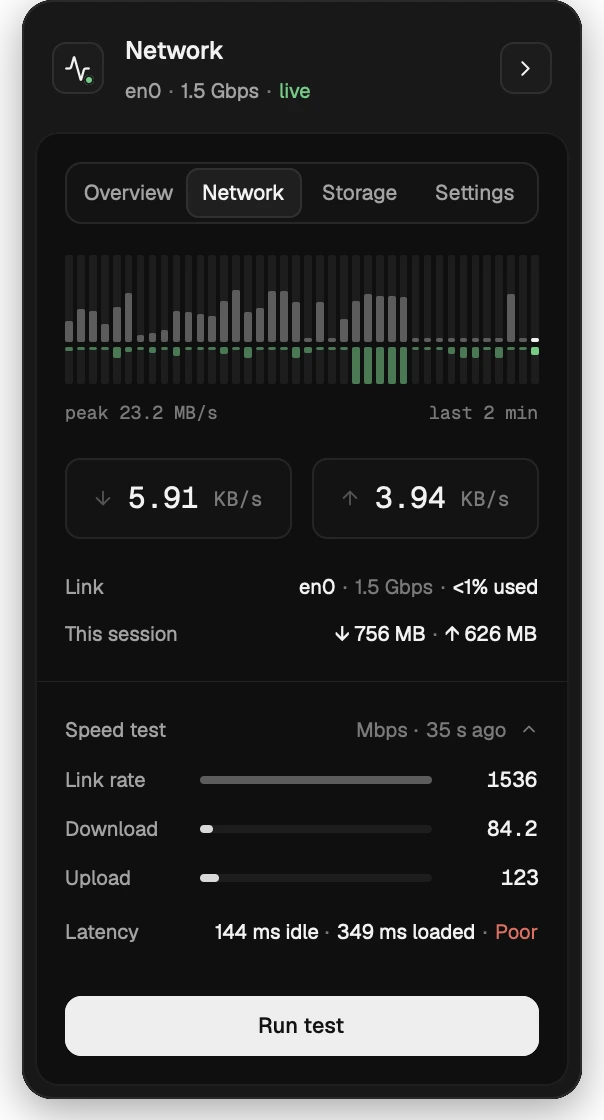
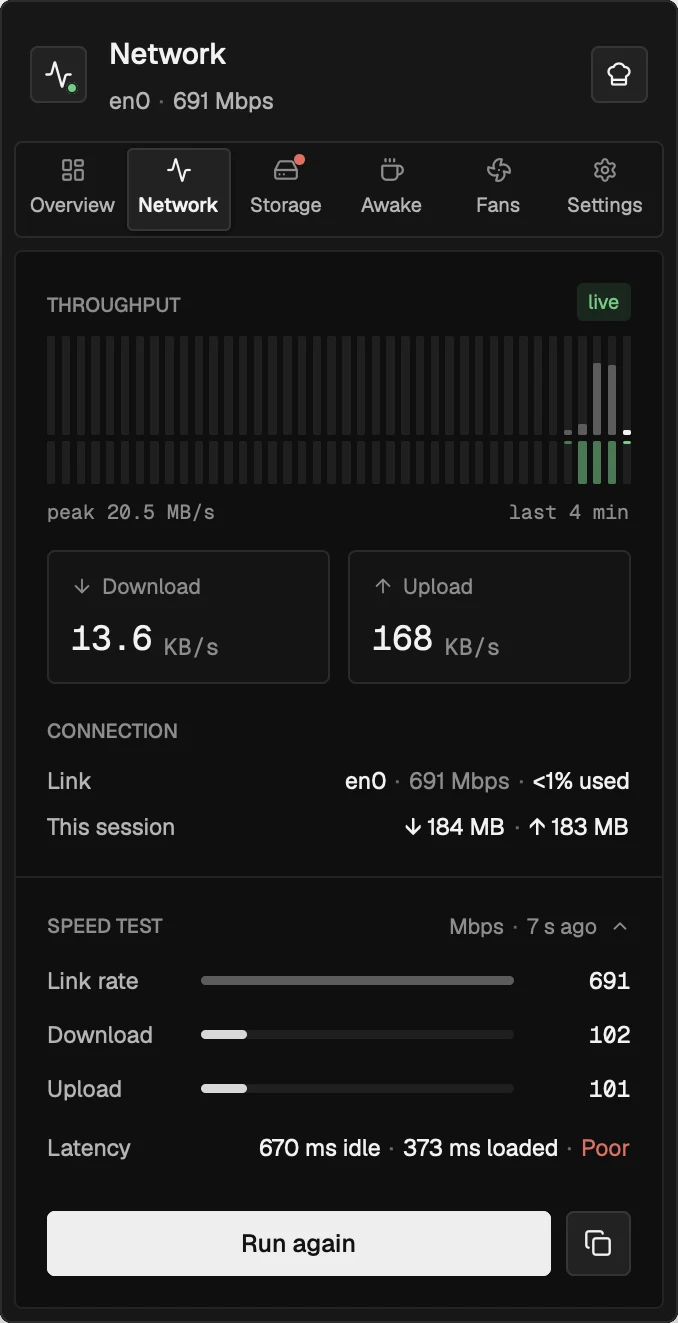
Update marketing site for Utilify dashboard features

diff --git a/marketing/index.html b/marketing/index.html
@@ -8,15 +8,15 @@
     <title>Utilify · Network and storage in your macOS menu bar</title>
     <meta
       name="description"
-      content="Utilify is a small, open-source macOS menu-bar monitor written in Rust. Live download and upload rates, a traffic graph and a storage bar, one click from a dashboard with a speed test and 30 days of storage history."
+      content="Utilify is a small, open-source set of macOS menu-bar utilities written in Rust: live network rates and storage, a speed test, keep awake, fan control and a CyberChef-style data workbench."
     />
     <meta property="og:title" content="Utilify · Your network, in the menu bar" />
     <meta
       property="og:description"
-      content="A small, open-source macOS menu-bar monitor for network activity and storage, written in Rust on GPUI."
+      content="Open-source macOS menu-bar utilities in Rust: network and storage, keep awake, fan control and a data workbench."
     />
-    <meta property="og:image" content="https://netwatch.imran.codes/images/og.png" />
-    <meta property="og:url" content="https://netwatch.imran.codes/" />
+    <meta property="og:image" content="https://utilify.imran.codes/images/og.png" />
+    <meta property="og:url" content="https://utilify.imran.codes/" />
     <meta name="twitter:card" content="summary" />
     <link rel="preload" href="fonts/Geist-Regular.ttf" as="font" type="font/ttf" crossorigin />
     <style>
@@ -443,7 +443,14 @@
       }
       .popover img {
         width: 100%;
-        border-radius: 16px;
+        border-radius: 5px;
+      }
+      /* Tabs taller than the desk scroll in the app; here they fade out. */
+      .popover.tall {
+        max-height: 552px;
+        overflow: hidden;
+        -webkit-mask-image: linear-gradient(to bottom, #000 calc(100% - 56px), transparent);
+        mask-image: linear-gradient(to bottom, #000 calc(100% - 56px), transparent);
       }
       .popover.on {
         opacity: 1;
@@ -680,45 +687,35 @@
       }
 
       /* Clickable tabs over a dashboard screenshot. The box matches the
-         screenshot's top 604x222 px, so the hit areas scale with the image. */
+         screenshot's top 678x240 px, so the hit areas scale with the image. */
       .tabbed {
         position: relative;
       }
       .tabbed .hit {
         position: absolute;
         inset: 0 0 auto 0;
-        aspect-ratio: 604 / 222;
+        aspect-ratio: 678 / 240;
         pointer-events: none;
       }
       .tabbed .hit .tabs {
         position: absolute;
-        left: 10.76%;
-        width: 78.48%;
-        top: 73.42%;
-        height: 27.03%;
+        left: 2.21%;
+        width: 95.58%;
+        top: 59.17%;
+        height: 39.58%;
         display: grid;
-        grid-template-columns: repeat(4, 1fr);
-        padding: 1.5%;
-        gap: 1%;
+        grid-template-columns: repeat(6, 1fr);
+        padding: 0.8%;
+        gap: 0.5%;
       }
       .tabbed .hit button {
         all: unset;
         pointer-events: auto;
         cursor: pointer;
-        border-radius: 7px;
+        border-radius: 3px;
       }
       .tabbed .hit .tabs button:not([aria-pressed="true"]):hover {
         background: rgba(255, 255, 255, 0.05);
-      }
-      .tabbed .hit .next {
-        position: absolute;
-        left: 82.78%;
-        width: 8.61%;
-        top: 18.92%;
-        height: 23.42%;
-      }
-      .tabbed .hit .next:hover {
-        background: rgba(255, 255, 255, 0.06);
       }
       .tabbed .hit button:focus-visible {
         outline: 2px solid var(--focus);
@@ -744,7 +741,7 @@
       }
       .dash-media img {
         width: 100%;
-        border-radius: 16px;
+        border-radius: 5px;
         filter: drop-shadow(0 26px 40px rgba(0, 0, 0, 0.7));
       }
       .dash-list {
@@ -1097,7 +1094,7 @@
           <a href="#install">Install</a>
         </nav>
         <div class="nav-right">
-          <a class="gh" href="https://github.com/imran-vz/Netwatch">
+          <a class="gh" href="https://github.com/imran-vz/Utilify">
             <svg viewBox="0 0 16 16" width="16" height="16" fill="currentColor" aria-hidden="true">
               <path d="M8 0C3.58 0 0 3.58 0 8c0 3.54 2.29 6.53 5.47 7.59.4.07.55-.17.55-.38 0-.19-.01-.82-.01-1.49-2.01.37-2.53-.49-2.69-.94-.09-.23-.48-.94-.82-1.13-.28-.15-.68-.52-.01-.53.63-.01 1.08.58 1.23.82.72 1.21 1.87.87 2.33.66.07-.52.28-.87.51-1.07-1.78-.2-3.64-.89-3.64-3.95 0-.87.31-1.59.82-2.15-.08-.2-.36-1.02.08-2.12 0 0 .67-.21 2.2.82.64-.18 1.32-.27 2-.27.68 0 1.36.09 2 .27 1.53-1.04 2.2-.82 2.2-.82.44 1.1.16 1.92.08 2.12.51.56.82 1.27.82 2.15 0 3.07-1.87 3.75-3.65 3.95.29.25.54.73.54 1.48 0 1.07-.01 1.93-.01 2.2 0 .21.15.46.55.38A8.01 8.01 0 0016 8c0-4.42-3.58-8-8-8z" />
             </svg>
@@ -1112,7 +1109,7 @@
       <div class="frame">
         <div class="news band" style="border-top: 0">
           <span>New:</span>
-          <a href="https://github.com/imran-vz/Netwatch">a four-tab dashboard with a speed test and 30 days of storage history. Read the code on GitHub →</a>
+          <a href="https://github.com/imran-vz/Utilify">keep awake, fan control and a CyberChef-style workbench, in a redesigned dashboard. Read the code on GitHub →</a>
         </div>
 
         <!-- Hero -->
@@ -1132,7 +1129,7 @@
                 </svg>
                 Get Utilify <kbd>I</kbd>
               </a>
-              <a class="btn" href="https://github.com/imran-vz/Netwatch" data-key="c">
+              <a class="btn" href="https://github.com/imran-vz/Utilify" data-key="c">
                 <svg viewBox="0 0 16 16" fill="currentColor" aria-hidden="true">
                   <path d="M8 0C3.58 0 0 3.58 0 8c0 3.54 2.29 6.53 5.47 7.59.4.07.55-.17.55-.38 0-.19-.01-.82-.01-1.49-2.01.37-2.53-.49-2.69-.94-.09-.23-.48-.94-.82-1.13-.28-.15-.68-.52-.01-.53.63-.01 1.08.58 1.23.82.72 1.21 1.87.87 2.33.66.07-.52.28-.87.51-1.07-1.78-.2-3.64-.89-3.64-3.95 0-.87.31-1.59.82-2.15-.08-.2-.36-1.02.08-2.12 0 0 .67-.21 2.2.82.64-.18 1.32-.27 2-.27.68 0 1.36.09 2 .27 1.53-1.04 2.2-.82 2.2-.82.44 1.1.16 1.92.08 2.12.51.56.82 1.27.82 2.15 0 3.07-1.87 3.75-3.65 3.95.29.25.54.73.54 1.48 0 1.07-.01 1.93-.01 2.2 0 .21.15.46.55.38A8.01 8.01 0 0016 8c0-4.42-3.58-8-8-8z" />
                 </svg>
@@ -1163,7 +1160,7 @@
                 </div>
               </div>
               <div class="popover tabbed" id="popover" role="dialog" aria-label="Utilify dashboard">
-                <img src="images/tab-overview.webp" alt="Utilify dashboard, Overview tab: a two-minute rate graph, the current download and upload rates, and a storage bar" width="604" height="758" />
+                <img src="images/tab-overview.webp" alt="Utilify dashboard, Overview tab: a two-minute rate graph, the current download and upload rates, and a storage bar" width="678" height="1192" />
               </div>
               <div class="ctx" id="ctx" role="menu" aria-label="Utilify menu">
                 <div class="hl">Open Dashboard</div>
@@ -1237,7 +1234,7 @@
             <div class="sec-head">
               <div>
                 <h2>One click for the full picture</h2>
-                <p>Left-click the status item and a dashboard drops down beneath it, in four tabs. It reopens on the tab you left, and clicking away closes it.</p>
+                <p>Left-click the status item and a dashboard drops down beneath it, in six tabs. It reopens on the tab you left, and clicking away closes it.</p>
               </div>
             </div>
           </div>
@@ -1245,7 +1242,7 @@
             <div class="inner dash">
               <div class="dash-media">
                 <div class="tabbed" id="dashShot">
-                  <img src="images/tab-overview.webp" alt="Utilify dashboard, Overview tab: a two-minute rate graph, the current download and upload rates, and a storage bar" width="604" height="758" loading="lazy" />
+                  <img src="images/tab-overview.webp" alt="Utilify dashboard, Overview tab: a two-minute rate graph, the current download and upload rates, and a storage bar" width="678" height="1192" loading="lazy" />
                 </div>
               </div>
               <ul class="dash-list">
@@ -1265,9 +1262,17 @@
                   <h3><span class="tab-tag">Storage</span>30 days of disk use</h3>
                   <p>Used space on your startup disk over the last 30 days, sampled every 15 minutes and kept across launches, with a dashed trend line and the average change per day.</p>
                 </li>
+                <li data-tab="awake" role="button" tabindex="0" aria-pressed="false">
+                  <h3><span class="tab-tag">Awake</span>Keep the Mac awake</h3>
+                  <p>Stay awake indefinitely, for a set time, until a clock time, while an app runs, while a file downloads, or while the network is busy. Choose whether the display and the lid may still sleep.</p>
+                </li>
+                <li data-tab="fans" role="button" tabindex="0" aria-pressed="false">
+                  <h3><span class="tab-tag">Fans</span>Fan control and temperatures</h3>
+                  <p>Leave each fan on automatic, pin it to a speed, or tie it to a sensor with a curve. Save setups as presets. Every temperature sensor is listed underneath. Setting speeds needs a small root helper, which the installer adds.</p>
+                </li>
                 <li data-tab="settings" role="button" tabindex="0" aria-pressed="false">
                   <h3><span class="tab-tag">Settings</span>Your preferences</h3>
-                  <p>How often to refresh, whether to show speeds in the menu bar, and where the storage bar turns yellow and red. Quit is here too.</p>
+                  <p>What the menu bar shows, where the storage bar turns yellow and red, which notifications you get, and the health checks that make sure everything still works. Quit is here too.</p>
                 </li>
               </ul>
             </div>
@@ -1350,12 +1355,12 @@
             <h2>Put Utilify in your menu bar</h2>
             <p>There are no signed builds yet. With a recent Rust toolchain, the install script builds the app, puts it in Applications and opens it. Re-run it after pulling to update.</p>
             <div class="actions">
-              <a class="btn primary" href="https://github.com/imran-vz/Netwatch#build-and-run">Build from source</a>
-              <a class="btn" href="https://github.com/imran-vz/Netwatch/releases">Releases</a>
+              <a class="btn primary" href="https://github.com/imran-vz/Utilify#build-and-run">Build from source</a>
+              <a class="btn" href="https://github.com/imran-vz/Utilify/releases">Releases</a>
             </div>
             <div class="term">
               <button class="copy" id="copy" type="button">Copy</button>
-              <pre id="cmds"><span>$ </span>git clone https://github.com/imran-vz/Netwatch && cd Netwatch
+              <pre id="cmds"><span>$ </span>git clone https://github.com/imran-vz/Utilify && cd Utilify
 <span>$ </span>./install.sh</pre>
             </div>
           </div>
@@ -1375,10 +1380,10 @@
               <h4>Product</h4>
               <ul>
                 <li><a href="#install">Install</a></li>
-                <li><a href="https://github.com/imran-vz/Netwatch/releases">Releases</a></li>
-                <li><a href="https://github.com/imran-vz/Netwatch#readme">Readme</a></li>
-                <li><a href="https://github.com/imran-vz/Netwatch">Source</a></li>
-                <li><a href="https://github.com/imran-vz/Netwatch/issues">Issues</a></li>
+                <li><a href="https://github.com/imran-vz/Utilify/releases">Releases</a></li>
+                <li><a href="https://github.com/imran-vz/Utilify#readme">Readme</a></li>
+                <li><a href="https://github.com/imran-vz/Utilify">Source</a></li>
+                <li><a href="https://github.com/imran-vz/Utilify/issues">Issues</a></li>
               </ul>
             </div>
             <div>
@@ -1600,12 +1605,14 @@
         ).observe(desk);
 
         // ── Dashboard screenshots with working tabs. Each tab is its own
-        //    screenshot; buttons over the tab bar and the › button swap them.
+        //    screenshot; buttons over the tab bar swap them.
         const TABS = {
-          overview: { h: 758, alt: "Utilify dashboard, Overview tab: a two-minute rate graph, the current download and upload rates, and a storage bar" },
-          network: { h: 1120, alt: "Utilify dashboard, Network tab: the rate graph, link speed and use, totals for the session, and a speed test result with latency idle and under load" },
-          storage: { h: 768, alt: "Utilify dashboard, Storage tab: a chart of used disk space over time with a dashed trend line, and a storage bar" },
-          settings: { h: 1044, alt: "Utilify dashboard, Settings tab: refresh interval, speeds in the menu bar, storage colour thresholds, the red-zone notification, and Quit" },
+          overview: { h: 1192, alt: "Utilify dashboard, Overview tab: a two-minute rate graph, the current download and upload rates, storage, and keep-awake choices" },
+          network: { h: 1323, alt: "Utilify dashboard, Network tab: the rate graph, link speed and use, totals for the session, and a speed test result with latency idle and under load" },
+          storage: { h: 853, alt: "Utilify dashboard, Storage tab: a chart of used disk space over 30 days with a dashed trend line, and a storage bar" },
+          awake: { h: 1592, alt: "Utilify dashboard, Awake tab: ways to start a keep-awake session, session options, and quick settings" },
+          fans: { h: 1645, alt: "Utilify dashboard, Fans tab: presets, each fan with Auto, Constant and Sensor control, and the temperature sensors" },
+          settings: { h: 1645, alt: "Utilify dashboard, Settings tab: what the menu bar shows, storage colours, notifications and health checks" },
         };
         const NAMES = Object.keys(TABS);
         let preloaded = false;
@@ -1630,12 +1637,7 @@
             row.append(b);
             return b;
           });
-          const next = document.createElement("button");
-          next.type = "button";
-          next.className = "next";
-          next.setAttribute("aria-label", "Next tab");
-          next.addEventListener("click", () => set(NAMES[(NAMES.indexOf(current) + 1) % NAMES.length]));
-          hit.append(row, next);
+          hit.append(row);
           root.append(hit);
           root.addEventListener("pointerenter", preload, { once: true });
           let current = "overview";
@@ -1644,6 +1646,7 @@
             img.src = `images/tab-${t}.webp`;
             img.height = TABS[t].h;
             img.alt = TABS[t].alt;
+            root.classList.toggle("tall", TABS[t].h > 1300);
             buttons.forEach((b, i) => b.setAttribute("aria-pressed", String(NAMES[i] === t)));
             if (!quiet && onChange) onChange(t);
           }

diff --git a/AGENTS.md b/AGENTS.md
@@ -1,0 +1,4 @@
+# Agent notes
+
+- When you write copy or a document (README, UI text, notification text,
+  release notes, docs), run it through the humanizer skill before you finish.
